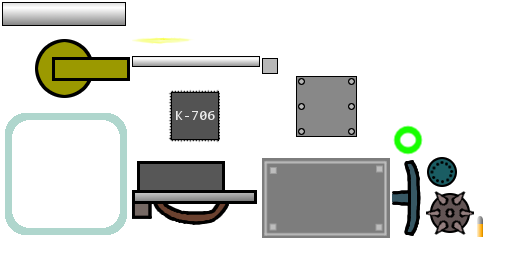
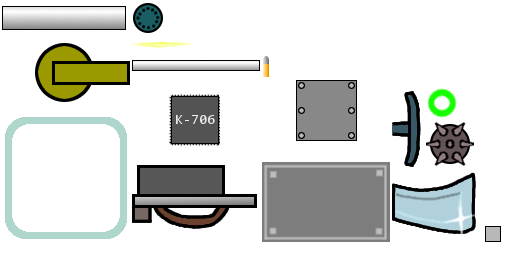
N

diff --git a/ringofoil/src/com/ironalloygames/ringofoil/component/Blade.java b/ringofoil/src/com/ironalloygames/ringofoil/component/Blade.java
@@ -1,0 +1,57 @@
+package com.ironalloygames.ringofoil.component;
+
+import com.badlogic.gdx.math.Vector2;
+import com.ironalloygames.ringofoil.component.Attachment.AttachmentPoint;
+import com.ironalloygames.ringofoil.entity.BladeEntity;
+import com.ironalloygames.ringofoil.entity.ComponentEntity;
+
+public class Blade extends Component {
+
+	/**
+	 * 
+	 */
+	private static final long serialVersionUID = -6188507153631834428L;
+
+	public Blade() {
+		// TODO Auto-generated constructor stub
+	}
+
+	@Override
+	public ComponentEntity createEntity(Vector2 robotCenter, boolean flipped) {
+		return new BladeEntity(this, robotCenter, flipped);
+	}
+
+	@Override
+	public Vector2 getBoundingBox() {
+		return new Vector2(91f / 128f * SCALE, 71f / 128f * SCALE);
+	}
+
+	@Override
+	public float getHeavyDamageResistance() {
+		return 1.5f;
+	}
+
+	@Override
+	public float getLightDamageMultiplier() {
+		return 7f;
+	}
+
+	@Override
+	protected int getUnitCost() {
+		return 35;
+	}
+
+	@Override
+	public boolean isAttachmentPointValid(AttachmentPoint point) {
+		return point == AttachmentPoint.LEFT;
+	}
+
+	@Override
+	public void render(Vector2 position, float rotation, boolean flipped) {
+		super.render(position, rotation, flipped);
+
+		renderSized(position, rotation, flipped, "blade");
+
+	}
+
+}

diff --git a/ringofoil/src/com/ironalloygames/ringofoil/EditorState.java b/ringofoil/src/com/ironalloygames/ringofoil/EditorState.java
@@ -12,6 +12,7 @@ import com.ironalloygames.ringofoil.component.Arm;
 import com.ironalloygames.ringofoil.component.Armor;
 import com.ironalloygames.ringofoil.component.Attachment;
 import com.ironalloygames.ringofoil.component.Attachment.AttachmentPoint;
+import com.ironalloygames.ringofoil.component.Blade;
 import com.ironalloygames.ringofoil.component.CPU;
 import com.ironalloygames.ringofoil.component.Cannon;
 import com.ironalloygames.ringofoil.component.Component;
@@ -58,6 +59,7 @@ public class EditorState extends GameState {
 		palette.add(new PaletteItem(new Piston(), "Piston: Powerful extendible piston. Good for ramming things."));
 		palette.add(new PaletteItem(new Armor(), "Armor: Very tough, especially against blades and bullets."));
 		palette.add(new PaletteItem(new Cannon(), "Cannon: Extremely high damage, but very limited ammo."));
+		palette.add(new PaletteItem(new Blade(), "Blade: Sharp cutting edge, deals great damage versus unarmored."));
 	}
 
 	@Override
@@ -204,6 +206,9 @@ public class EditorState extends GameState {
 							break;
 						case 6:
 							comp = new Cannon();
+							break;
+						case 7:
+							comp = new Blade();
 							break;
 						}
 

diff --git a/ringofoil/src/com/ironalloygames/ringofoil/entity/BladeEntity.java b/ringofoil/src/com/ironalloygames/ringofoil/entity/BladeEntity.java
@@ -1,0 +1,17 @@
+package com.ironalloygames.ringofoil.entity;
+
+import com.badlogic.gdx.math.Vector2;
+import com.ironalloygames.ringofoil.component.Component;
+
+public class BladeEntity extends ComponentEntity {
+
+	public BladeEntity(Component component, Vector2 robotCenter, boolean flipped) {
+		super(component, robotCenter, flipped);
+	}
+
+	@Override
+	protected float getDensity() {
+		return .15f;
+	}
+
+}
